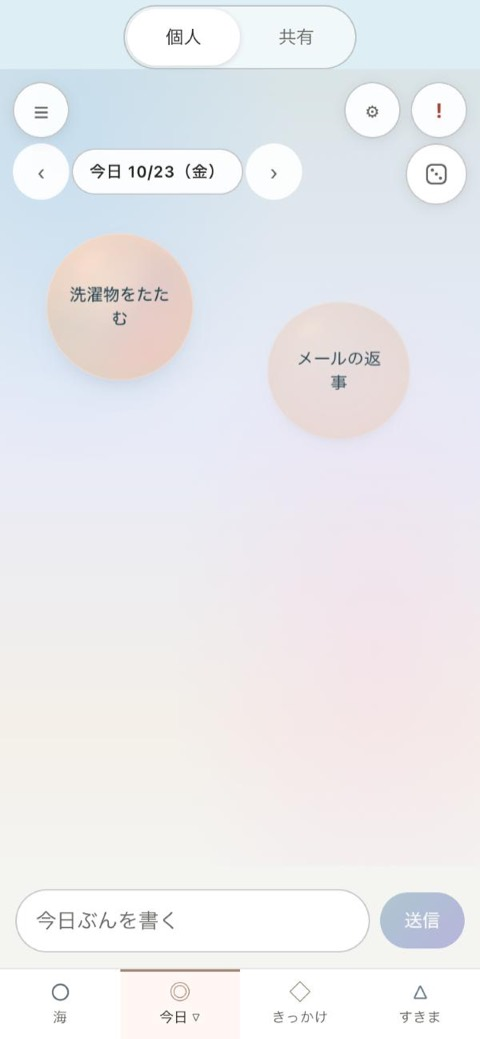
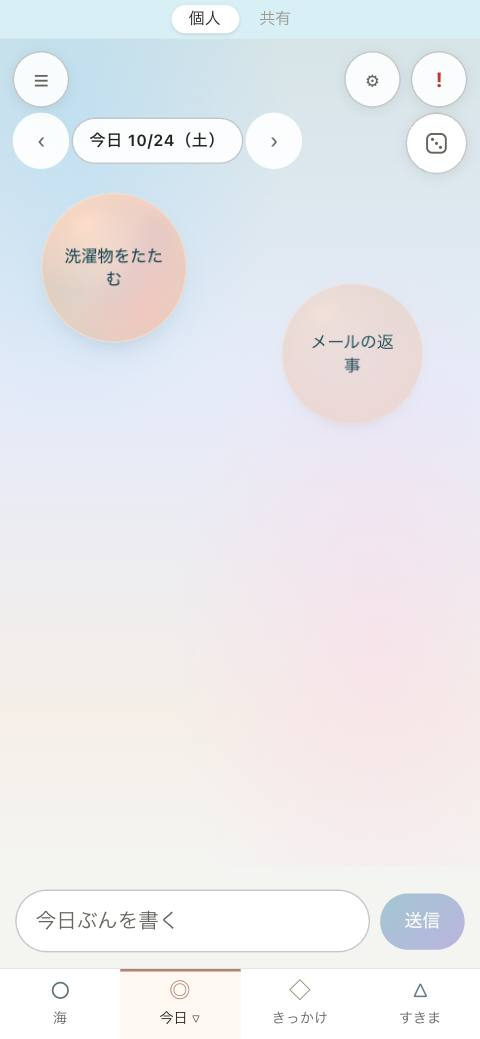
個人と共有の切り替えを引き出し（≡）の頭へ移し、いちばん上は表示だけの薄い帯にした
- 利用者の指示（デザイン案の B を入口に、D のように表示）。54px の帯が切り替えのボタンで、
  Android の小さい画面（360×640）で海を削っていた（海の高さ 342px → 366px）
- 引き出しのいちばん上に「個人／共有」（48px）。押すと読み直してその持ち主になる
- いちばん上は 30px の薄い帯で、今の側を白く浮かせる（押せない）。共有の状態の字はその右に2行
- 設定の説明と使い方の記事を直した。記事のスクリーンショットは tools/guide-shots.mjs で撮り直した
  （試し用の server.py と headless の Chrome を起動し、375×812 で 17 枚を撮る。画面を直したら実行し直す）
- sw.js の VERSION を上げた

diff --git a/docs/guide/index.html b/docs/guide/index.html
@@ -84,7 +84,7 @@ h2, h3 { scroll-margin-top: 76px; }
 <h3>海に書く</h3>
 <p>下の欄に書いて「送信」を押すと、泡になって海に浮かびます。泡は時間とともにゆっくり漂います。左右の矢印の看板（「仕事」など）か背景をなぞると、となりの海（タグごとの海）へ移ります。上は「長期保留」、下は「完了」の海です。</p>
 <figure>
-  <div class="shot"><img src="img/01_sea.jpg" alt="海の画面。泡がいくつか浮かんでいる" loading="lazy"><figcaption>海。上にあるのは「個人 | 共有」の帯（<a href="#space">2章</a>）</figcaption></div>
+  <div class="shot"><img src="img/01_sea.jpg" alt="海の画面。泡がいくつか浮かんでいる" loading="lazy"><figcaption>海。いちばん上の薄い帯は、今が個人か共有か（<a href="#space">2章</a>）</figcaption></div>
   <div class="shot"><img src="img/02_write.jpg" alt="下の欄に「カーテンを洗う」と書いたところ" loading="lazy"><figcaption>下の欄に書いて「送信」</figcaption></div>
 </figure>
 
@@ -104,21 +104,24 @@ h2, h3 { scroll-margin-top: 76px; }
 </figure>
 
 <h3>引き出しと設定</h3>
-<p>左上の ≡ は「引き出し」。最近つかったもの・お気に入り・長期保留・タグごとの一覧から、1タップで今日に置けます。右上の ⚙ は設定です。設定のいちばん上に「ふりかえり」と、この「使い方」があります。</p>
+<p>左上の ≡ は「引き出し」。いちばん上の「個人／共有」で持ち主を切り替えます。その下の、最近つかったもの・お気に入り・長期保留・タグごとの一覧から、1タップで今日に置けます。右上の ⚙ は設定です。設定のいちばん上に「ふりかえり」と、この「使い方」があります。</p>
 <figure>
   <div class="shot"><img src="img/08_drawer.jpg" alt="引き出し。最近つかった泡と「今日に」のボタン" loading="lazy"><figcaption>引き出し（≡）</figcaption></div>
   <div class="shot"><img src="img/09_settings.jpg" alt="設定の画面。ふりかえり・使い方・タグ" loading="lazy"><figcaption>設定（⚙）</figcaption></div>
 </figure>
 
 <h2 id="space">2. 個人と共有</h2>
-<p>いちばん上の帯で「個人」と「共有」を切り替えます。切り替えると画面を読み直し、app 全体（海・今日・きっかけ・すきま・ふりかえり）がその持ち主の記録になります。</p>
+<p>左上の ≡（引き出し）を開くと、いちばん上に「個人」「共有」のボタンがあります。押すと画面を読み直し、app 全体（海・今日・きっかけ・すきま・ふりかえり）がその持ち主の記録になります。今どちらかは、画面のいちばん上の薄い帯に出ます（帯は表示だけで、押しても切り替わりません）。</p>
+<figure>
+  <div class="shot"><img src="img/08_drawer.jpg" alt="引き出しのいちばん上の「個人」「共有」のボタン" loading="lazy"><figcaption>切り替えは引き出し（≡）のいちばん上</figcaption></div>
+</figure>
 <ul>
   <li><b>個人</b>：自分だけの記録。端末に書き、サーバーに繋いでいればサーバーとも合わせます。</li>
-  <li><b>共有</b>：共有の合言葉を知っている人どうしの記録。水が夕方の色になり、帯の右に「合わせた／時刻」と出ます。書けるのは、サーバーと合わせられている間だけです。</li>
+  <li><b>共有</b>：共有の合言葉を知っている人どうしの記録。水が夕方の色になり、薄い帯の右に「合わせた／時刻」と出ます。書けるのは、サーバーと合わせられている間だけです。</li>
 </ul>
 <figure>
   <div class="shot"><img src="img/01_sea.jpg" alt="個人の海（水色）" loading="lazy"><figcaption>個人（いつもの水の色）</figcaption></div>
-  <div class="shot"><img src="img/13_share.jpg" alt="共有の海（夕方の色）。帯の右に「合わせた 16:34」" loading="lazy"><figcaption>共有（夕方の水。右上に「合わせた」）</figcaption></div>
+  <div class="shot"><img src="img/13_share.jpg" alt="共有の海（夕方の色）。薄い帯の右に「合わせた」と時刻" loading="lazy"><figcaption>共有（夕方の水。右上に「合わせた」）</figcaption></div>
 </figure>
 <div class="box share">個人の泡を共有へ移す道はありません（間違えて人に見せないため）。共有に置きたいものは、共有に切り替えてから書きます。件数や人数は出しません。</div>
 
@@ -143,7 +146,7 @@ h2, h3 { scroll-margin-top: 76px; }
 <ol class="steps">
   <li>Tailscale のアカウントを作り（個人向けは無料）、端末に Tailscale を入れてログインする。</li>
   <li>持ち主から届いた「機械の共有」の招待を受け入れる。あなたの Tailscale に、このサーバー機だけが現れます（ほかの機械には届きません）。</li>
-  <li>Bubbles で帯の「共有」を押す。「共有の海に入る」の札が出るので、「設定を開く」を押す。</li>
+  <li>Bubbles で左上の ≡ を開き、いちばん上の「共有」を押す。「共有の海に入る」の札が出るので、「設定を開く」を押す。</li>
   <li>住所と「共有の合言葉」だけを入れて「繋ぐ」（「自分の合言葉」は空のまま）。「共有: 合わせた」になれば入れています。</li>
 </ol>
 <figure>
@@ -154,7 +157,7 @@ h2, h3 { scroll-margin-top: 76px; }
 <div class="box">Tailscale は「自分の機械どうしだけをつなぐ VPN」です。ほかの Web サイトへの通信は Tailscale を通らず、今までどおり直接届きます。スマホでは VPN の枠を1つ使うので、ほかの VPN とは同時に使えません。</div>
 
 <h2 id="offline">5. 繋がっていないとき</h2>
-<p>共有の海は、サーバーと合わせられていない間は「読むだけ」になります。最後に見たものを色を抜いて出し、帯の右に「繋がっていない／<i>時刻</i> に見たもの」と出ます。入力欄は点線になり、書こうとすると「繋がると書ける」と知らせます。繋がったら自動で新しくなり、色も戻ります。</p>
+<p>共有の海は、サーバーと合わせられていない間は「読むだけ」になります。最後に見たものを色を抜いて出し、薄い帯の右に「繋がっていない／<i>時刻</i> に見たもの」と出ます。入力欄は点線になり、書こうとすると「繋がると書ける」と知らせます。繋がったら自動で新しくなり、色も戻ります。</p>
 <figure>
   <div class="shot"><img src="img/14_share_offline.jpg" alt="繋がっていない共有の海。色が抜け、「繋がっていない 16:34 に見たもの」" loading="lazy"><figcaption>繋がっていない共有</figcaption></div>
   <div class="shot"><img src="img/15_share_blocked.jpg" alt="書こうとしたときの知らせ「繋がると書ける」" loading="lazy"><figcaption>書こうとしたとき</figcaption></div>
@@ -231,7 +234,7 @@ bash bubbles-todo/tools/server-setup.sh rotate-me</code></pre>
   <tr><td>「合言葉が違う」</td><td>合言葉を入れ直す。取り消された（<code>share-remove</code>）か、作り直された（<code>rotate-me</code>）かもしれない。</td></tr>
   <tr><td>「これは共有の合言葉ではない」「これは共有の合言葉（自分の合言葉の欄に入っている）」</td><td>欄を取り違えている。自分の合言葉と共有の合言葉を入れ替える。</td></tr>
   <tr><td>「http では繋がない」</td><td>住所を <code>https://…ts.net</code> にする。</td></tr>
-  <tr><td>共有で書けない（点線）</td><td>サーバーと合わせられるまで読むだけ。右上の字が「合わせた」になれば書ける。</td></tr>
+  <tr><td>共有で書けない（点線）</td><td>サーバーと合わせられるまで読むだけ。いちばん上の薄い帯の右の字が「合わせた」になれば書ける。</td></tr>
   <tr><td>ほかの VPN が切れた（スマホ）</td><td>スマホは VPN を1つしか同時に使えない。Bubbles を使う間だけ Tailscale に切り替える。</td></tr>
 </table>
 <p class="note">この記事のスクリーンショットは、試し用の記録で撮ったものです。</p>

diff --git a/css/space.css b/css/space.css
@@ -1,39 +1,54 @@
-/* 個人と共有の切り替え（js/space.js。2026-10-23 利用者の指示。デザイン案「帯」）。
+/* 個人と共有（js/space.js。2026-10-23 利用者の指示）。
+   2026-10-24: 切り替えは引き出し（≡）の頭へ移し、いちばん上は表示だけの薄い帯（30px）にした
+   （Android の小さい画面で、54px の帯が海を削っていた。デザイン案の B と D）。
 
    ■ 帯のぶん、全体を下げる
    上の段（≡・海の名前・カレンダー・歯車・!）も画面の中身も、上端を --safe-t から測っている。
    だから --safe-t に帯の高さを足すだけで、全部がそろって下がる（.app の padding-top も）。
    帯そのものは、元の安全領域（env）から測る。 */
-html.has-strip { --strip-h: 54px; --safe-t: calc(env(safe-area-inset-top, 0px) + var(--strip-h)); }
+html.has-strip { --strip-h: 30px; --safe-t: calc(env(safe-area-inset-top, 0px) + var(--strip-h)); }
 
 /* 帯の下地は水のいちばん上の色（帯だけを塗る）。画面の中身は帯の下から始まるので、
    塗らないと海の上に灰色の段ができる。.app ごと塗ると、設定の画面まで水の色になる */
 .space-strip {
   position: absolute; z-index: 31; left: 0; right: 0; top: 0;
   height: calc(env(safe-area-inset-top, 0px) + var(--strip-h));
-  padding-top: calc(env(safe-area-inset-top, 0px) + 4px);
+  padding-top: env(safe-area-inset-top, 0px);
   background: var(--sea-1);
-  display: flex; justify-content: center; align-items: flex-start; pointer-events: none;
+  display: flex; justify-content: center; align-items: center; pointer-events: none;
 }
-.space-seg {
-  pointer-events: auto;
-  display: inline-flex; padding: 2px; border-radius: 999px;
-  background: color-mix(in srgb, var(--surface) 55%, transparent);
-  border: 1px solid var(--line-strong);
+/* 表示だけの「個人 共有」。今の側を白く浮かせる。押せないので 44px の決まりは当てはまらない */
+.space-seg { display: inline-flex; gap: 2px; }
+.space-seg span {
+  font-size: 12.5px; line-height: 1; color: var(--text-3);
+  padding: 5px 14px; border-radius: 999px;
 }
-.space-seg button {
-  appearance: none; -webkit-appearance: none; cursor: pointer; font: inherit;
-  border: 0; background: transparent; color: var(--text-2);
-  min-width: 88px; height: 44px; padding: 0 14px; border-radius: 999px;   /* タップ目標は 44 を下回らない */
-  font-size: 14px;
-}
-.space-seg button.is-on { background: var(--surface); color: var(--text); box-shadow: 0 1px 4px rgba(0,0,0,.12); }
-/* 共有の印。押しているときだけ、字の前に小さな点 */
-.space-seg button.is-share-btn.is-on::before {
+.space-seg span.is-on { background: var(--surface); color: var(--text); box-shadow: 0 1px 3px rgba(0,0,0,.12); }
+/* 共有の印。今が共有のときだけ、字の前に小さな点 */
+.space-seg span.is-share-btn.is-on::before,
+.drawer-space button.is-share-btn.is-on::before {
   content: ""; display: inline-block; width: 7px; height: 7px; border-radius: 50%;
   background: var(--share-mark); margin-right: 6px; vertical-align: 1px;
 }
-.space-seg button:focus-visible { outline: 2px solid var(--bub-edge); outline-offset: 2px; }
+
+/* 引き出しの頭の切り替え。2つ並べ、今の側を浮かせる。押す的は 44px 以上 */
+.drawer-space {
+  display: grid; grid-template-columns: 1fr 1fr; gap: 8px;
+  margin: 4px 56px 4px 14px;            /* 右は ✕（引き出しを閉じる）の分あける */
+}
+.drawer-space button {
+  appearance: none; -webkit-appearance: none; cursor: pointer; font: inherit; font-size: 14px;
+  min-height: 48px; border-radius: 14px;
+  border: 1px solid var(--line-strong); background: var(--surface); color: var(--text-2);
+}
+.drawer-space button.is-on {
+  border-color: var(--bub-edge); color: var(--text);
+  background: color-mix(in srgb, var(--sea-1) 60%, var(--surface));
+}
+html.is-share .drawer-space button.is-on { border-color: var(--share-edge); }
+.drawer-space button:focus-visible { outline: 2px solid var(--bub-edge); outline-offset: 2px; }
+/* 切り替えが ✕ の高さを占めるので、下の一覧の上の余白を詰める */
+.drawer-space + .drawer-body { padding-top: 8px; }
 
 /* ---------- 共有の水（夕方の杏・藤・若葉）----------
    海の色はどの画面も --sea-* と --drift-* から塗っているので、ここを替えるだけで全画面が変わる */
@@ -63,16 +78,15 @@ html.is-share {
 /* 繋がっていない共有: 最後に見たものを、色を抜いて出す */
 html.is-share.is-off .panes { filter: saturate(.45); opacity: .82; }
 
-/* 共有の状態の字。帯の右の空き（「個人 | 共有」の右どなり）に2行で置く。
-   試作では上の2段の下に置いたが、海の「長期保留」の札や今日の日付の行と重なったので、
-   どの画面でも空いている帯の中へ移した。押せない（読むだけの字） */
+/* 共有の状態の字。薄い帯の右の空き（「個人 共有」の右どなり）に2行で置く。
+   押せない（読むだけの字） */
 .space-state {
   position: absolute; z-index: 32; right: 8px;
-  top: calc(env(safe-area-inset-top, 0px) + 4px); height: 48px;
-  width: calc(50% - 104px);
+  top: env(safe-area-inset-top, 0px); height: var(--strip-h);
+  width: calc(50% - 76px);
   display: flex; flex-direction: column; justify-content: center; align-items: flex-end;
   text-align: right; pointer-events: none;
-  font-size: 11px; line-height: 1.35; color: var(--text-2);
+  font-size: 10px; line-height: 1.25; color: var(--text-2);
 }
 .space-state span { display: block; white-space: nowrap; }
 .space-state.is-off { color: var(--share-text); }

diff --git a/js/space.js b/js/space.js
@@ -1,16 +1,20 @@
-/* 個人と共有の切り替え（2026-10-23。利用者の指示。デザイン案「帯」）。
+/* 個人と共有の切り替え（2026-10-23。利用者の指示）。
 
-   いちばん上の帯に「個人 | 共有」。押すと持ち主を書き換えて画面を読み直す
-   （app 全体＝海・今日・きっかけ・すきま・ふりかえりが、その持ち主の記録になる）。
+   2026-10-24 に置き場を考え直した（利用者の指示：B を切り替えの入口にし、D のように表示）。
+     ・切り替え … 引き出し（左上の ≡）のいちばん上の「個人／共有」（spaceSwitcher()。app.js が置く）。
+                  押すと持ち主を書き換えて画面を読み直す
+                  （app 全体＝海・今日・きっかけ・すきま・ふりかえりが、その持ち主の記録になる）
+     ・表示     … いちばん上の薄い帯（30px）に「個人 共有」を並べ、今の側を白く浮かせる。**押せない**
+                  （表示だけ。前は 54px の帯が切り替えのボタンで、Android の小さい画面で海を削っていた）
    共有のときは水が夕方の色になる（css/space.css。html.is-share）。
 
    共有のときだけ出るもの:
-     ・状態の字   帯の右に2行。「合わせた／15:30」・「繋がっていない／15:30 に見たもの」
+     ・状態の字   薄い帯の右に2行。「合わせた／15:30」・「繋がっていない／15:30 に見たもの」
                   件数・人数は出さない（数を出さない決まりと同じ）
      ・入る札     共有の合言葉がまだ無いとき、海の上に「共有の海に入る」→ 設定へ
      ・読むだけ   合わせられていない間は、入力欄を点線にして「繋がると書ける」。
                   書き込み口は store が断り、ここが知らせを出す
-   個人のときは帯が足されるだけで、ほかは今までどおり。 */
+   個人のときは薄い帯が足されるだけで、ほかは今までどおり。 */
 
 import { store, SPACE_KEY } from './store.js';
 import { sync } from './sync.js';
@@ -26,30 +30,50 @@ function hhmm(ms) {
   return String(d.getHours()).padStart(2, '0') + ':' + String(d.getMinutes()).padStart(2, '0');
 }
 
-/* ---- 帯 ---- */
+const LABELS = [['me', '個人'], ['share', '共有']];
+
+/* 持ち主を替える。個人の書きかけ（位置など）を残してから読み直す。共有で読むだけなら store が断る */
+function switchTo(id) {
+  if (id === SPACE) return;
+  try { store.flush(); } catch (e) { /* 替えるのは止めない */ }
+  try { localStorage.setItem(SPACE_KEY, id); } catch (e) { toast('切り替えを覚えられなかった'); return; }
+  location.reload();
+}
+
+/* ---- 薄い帯（表示だけ。押せない） ---- */
 const strip = document.createElement('div');
 strip.className = 'space-strip';
-strip.setAttribute('role', 'group');
-strip.setAttribute('aria-label', '持ち主');
+strip.setAttribute('role', 'status');
+strip.setAttribute('aria-label', '今の持ち主: ' + (SPACE === 'share' ? '共有' : '個人') + '（切り替えは左上の ≡ から）');
 const seg = document.createElement('div');
 seg.className = 'space-seg';
-[['me', '個人'], ['share', '共有']].forEach(([id, label]) => {
-  const b = document.createElement('button');
-  b.type = 'button';
-  b.dataset.space = id;
-  b.className = (id === 'share' ? 'is-share-btn ' : '') + (id === SPACE ? 'is-on' : '');
-  b.textContent = label;
-  b.setAttribute('aria-pressed', id === SPACE ? 'true' : 'false');
-  b.addEventListener('click', () => {
-    if (id === SPACE) return;
-    /* 個人の書きかけ（位置など）を残してから替える。共有で読むだけなら store が断る */
-    try { store.flush(); } catch (e) { /* 替えるのは止めない */ }
-    try { localStorage.setItem(SPACE_KEY, id); } catch (e) { toast('切り替えを覚えられなかった'); return; }
-    location.reload();
-  });
-  seg.appendChild(b);
+seg.setAttribute('aria-hidden', 'true');
+LABELS.forEach(([id, label]) => {
+  const span = document.createElement('span');
+  span.className = (id === 'share' ? 'is-share-btn ' : '') + (id === SPACE ? 'is-on' : '');
+  span.textContent = label;
+  seg.appendChild(span);
 });
 strip.appendChild(seg);
+
+/* ---- 引き出しの頭の切り替え（app.js の openDrawer が、引き出しを開くたびに置く） ---- */
+export function spaceSwitcher() {
+  const box = document.createElement('div');
+  box.className = 'drawer-space';
+  box.setAttribute('role', 'group');
+  box.setAttribute('aria-label', '持ち主の切り替え');
+  LABELS.forEach(([id, label]) => {
+    const b = document.createElement('button');
+    b.type = 'button';
+    b.dataset.space = id;
+    b.className = (id === 'share' ? 'is-share-btn ' : '') + (id === SPACE ? 'is-on' : '');
+    b.textContent = label;
+    b.setAttribute('aria-pressed', id === SPACE ? 'true' : 'false');
+    b.addEventListener('click', () => switchTo(id));
+    box.appendChild(b);
+  });
+  return box;
+}
 
 /* ---- 共有の状態の字 ---- */
 const stateEl = document.createElement('div');

diff --git a/js/app.js b/js/app.js
@@ -11,8 +11,8 @@
 import { store } from './store.js';
 /* サーバーと記録を合わせる。設定で住所を入れていなければ何もしない（sync.js） */
 import './sync.js';
-/* 個人と共有の帯（space.js）。持ち主は store が開くときに決まっている */
-import './space.js';
+/* 個人と共有（space.js）。薄い帯の表示と、引き出しの頭の切り替え。持ち主は store が開くときに決まっている */
+import { spaceSwitcher } from './space.js';
 import { toast, holdRing, fromFeedback } from './ui.js';
 
 import { setCaptureHandler, setWorklogHandler, setSessionHandler, closeFocus, isFocusOpen } from './focus.js';
@@ -415,6 +415,8 @@ function openDrawer() {
   const body = document.createElement('div');
   body.className = 'drawer-body';
   panel.appendChild(close);
+  /* いちばん上に「個人／共有」の切り替え（2026-10-24 利用者の指示：切り替えの入口は引き出し） */
+  panel.appendChild(spaceSwitcher());
   panel.appendChild(body);
   back.appendChild(panel);
   /* 覆いをタップで閉じる。板の中のタップは閉じない */

diff --git a/js/screens/settings.js b/js/screens/settings.js
@@ -316,7 +316,7 @@ function serverBox(screen) {
     '自分で立てたサーバーに繋ぐと、ほかの端末と同じ記録を使える。'
     + '食い違ったときは、項目ごとに新しく書き換えたほうが残る。'
     + '届かない間もこの端末には記録され、届いたら合わせる。'
-    + '共有の合言葉も入れると、それを知っている人と共有の海を使える（上の帯で切り替える）。'
+    + '共有の合言葉も入れると、それを知っている人と共有の海を使える（左上の ≡ の引き出しで切り替える）。'
   ));
 
   const form = el('form', 'tagadd');

diff --git a/sw.js b/sw.js
@@ -28,7 +28,7 @@
    ファイルを足したときは ASSETS にも足す（足し忘れたものは、
    網が無いときだけ取れない——ふだんは動いてしまうので気づきにくい）。 */
 
-const VERSION = '2026-10-24a';   /* 直したら上げる。上げないと利用者には古い版が出続ける */
+const VERSION = '2026-10-24b';   /* 直したら上げる。上げないと利用者には古い版が出続ける */
 const CACHE = 'bubbles-' + VERSION;
 
 const ASSETS = [

diff --git a/README.md b/README.md
@@ -202,16 +202,16 @@ bash tests/server-setup.test.sh
 
 `docs/guide/index.html`（スクリーンショットつき。2026-10-23）。app の設定のいちばん上の「使い方」から開き、記事の上の「アプリへ戻る」で戻る。
 server.py も Android 版（`www/`）も docs/ を配る。service worker の箱には入れていない（記事はオフラインでは開けない。Android 版は APK に入るので開ける）。
-スクリーンショットは試し用の記録で撮る（repo は公開。本物の記録・ローカルの場所を写さない）。画面を直したら撮り直す。
+スクリーンショットは試し用の記録で撮る（repo は公開。本物の記録・ローカルの場所を写さない）。画面を直したら `node tools/guide-shots.mjs` で全部を撮り直す（試し用のサーバーと headless の Chrome を自分で起動し、375×812 で撮って `docs/guide/img/` を上書きする）。
 
 ## 個人と共有の海
 
-いちばん上の帯で「個人 | 共有」を切り替える（2026-10-23。利用者の指示。デザイン案は帯の案）。
+左上の ≡（引き出し）のいちばん上の「個人／共有」で切り替える。今どちらかは、いちばん上の表示だけの薄い帯（30px）に出る（2026-10-23 に帯の案で作り、2026-10-24 に考え直した。54px の帯が切り替えのボタンで、Android の小さい画面で海を削っていたため。デザイン案の B と D）。
 切り替えると画面を読み直し、app 全体（海・今日・きっかけ・すきま・ふりかえり）がその持ち主の記録になる。
 
-- **個人**: 今までの記録。端末に書き、自分の合言葉で繋いでいればサーバーとも合わせる。帯が足されるだけで、見た目は今までどおり
-- **共有**: 共有の合言葉を知っている人どうしの記録。水が夕方の色（杏・藤・若葉）になり、帯の右に「合わせた／15:30」と出る
-  - 書けるのは、サーバーと合わせられている間だけ。繋がっていないときは、最後に見たものを色を抜いて出し、帯の右に「繋がっていない／15:30 に見たもの」。入力欄は点線で「繋がると書ける」。書き込み口は store が断り、短く知らせる
+- **個人**: 今までの記録。端末に書き、自分の合言葉で繋いでいればサーバーとも合わせる。薄い帯が足されるだけで、見た目は今までどおり
+- **共有**: 共有の合言葉を知っている人どうしの記録。水が夕方の色（杏・藤・若葉）になり、薄い帯の右に「合わせた／15:30」と出る
+  - 書けるのは、サーバーと合わせられている間だけ。繋がっていないときは、最後に見たものを色を抜いて出し、薄い帯の右に「繋がっていない／15:30 に見たもの」。入力欄は点線で「繋がると書ける」。書き込み口は store が断り、短く知らせる
   - 共有の合言葉がまだ無ければ、海に「共有の海に入る」の札（「設定を開く」）
   - 件数・人数は出さない（数を出さない決まりと同じ）
 - **サーバー**: 合言葉が置き場を決める。個人は `token.txt`（`BUBBLE_TODO_TOKEN`）で `data/state.json`、共有は人ごとの `share_tokens.json`（と `BUBBLE_TODO_SHARE_TOKEN`）で `data/share/state.json`。共有の合言葉だけを知る人は個人の記録を読めない。同じ合言葉を2つに使うと起動しない

diff --git a/FEATURES.md b/FEATURES.md
@@ -56,7 +56,7 @@
 | **改善のコメント（右上の !）**（GitHub の新しい Issue 画面を、画面 ID とコメントを書き込んで開く） | `js/feedback.js`（issue_hub の正本の写し）、`js/app.js` 末尾、各板の `data-screen` | 2026-10-22。バブルの本文が写るので写真は初めは付けない（`screenshot: 'off'`。チェックを入れれば付く、2026-10-23）。記録の欄は出さない（`log: false`）。右上の隅に歯車と同じ 44px で置き、歯車・海のカレンダーを左へずらした（2026-10-23）。バブルの本文は送らない（画面と件数だけ） |
 | Android（Capacitor 6） | `android/`、`tools/build-www.mjs` | ビルドは開発側（この repo）で |
 | 保存は localStorage。サーバーの住所を入れたときだけ、自分のサーバーと記録を合わせる | `js/store.js` `KEY = 'bubble_todo_v1'`・`stamps`、`js/merge.js`、`js/sync.js`、`server.py`、設定の「サーバー」 | 2026-10-23。記録ごとに新しく書き換えたほうが残る。消したものは消した時刻で比べる。ファイルへの書き出し・読み込みの画面は無い |
-| 個人と共有の海（上の帯で切り替え。共有は共有の合言葉を知る人どうし、合わせられた間だけ書ける） | `js/space.js`、`css/space.css`、`js/store.js` `SPACE`・`readOnly`・`WRITE_METHODS`、`js/sync.js`、`server.py` `SPACES` | 2026-10-23。繋がっていない共有は最後に見たものを読むだけ。件数・人数は出さない。個人から共有へ移す道は無い |
+| 個人と共有の海（引き出しの頭で切り替え、いちばん上の薄い帯で表示。共有は共有の合言葉を知る人どうし、合わせられた間だけ書ける） | `js/space.js`、`css/space.css`、`js/store.js` `SPACE`・`readOnly`・`WRITE_METHODS`、`js/sync.js`、`server.py` `SPACES` | 2026-10-23。繋がっていない共有は最後に見たものを読むだけ。件数・人数は出さない。個人から共有へ移す道は無い |
 | 名前（本文）を盤で書き直せる | `js/store.js` `setText`、`js/bubble.js` 「名前」欄 | 2026-10-12。空にはできない。記録のスナップショットは当時のまま |
 | **引き出し**（左上の ≡。最近つかった／お気に入り／長期保留／タグごと → 今日に置く。名前で盤が開く） | `js/app.js` `openDrawer` / `revealItem`、`js/store.js` `recentItems` / `favItems` / `setFav`、`js/bubble.js` `centerBubble` | 2026-09-24（元 F7）。9/25 にタグ区分・折り畳み・名前タップを追加。お気に入りは盤の ☆ |
 
